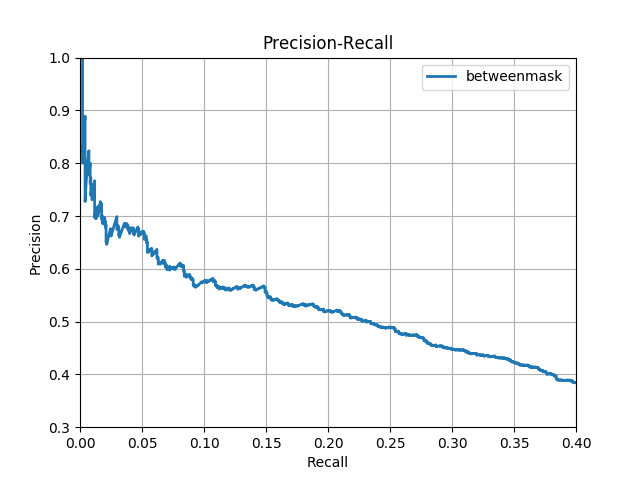
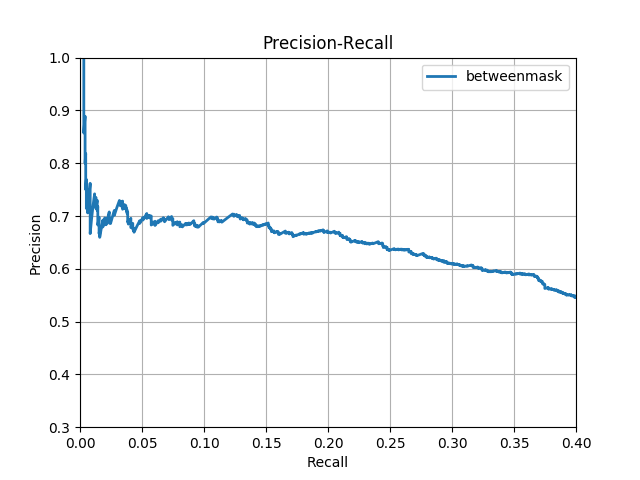
<fix>: stable result

diff --git a/code/dataloader.py b/code/dataloader.py
@@ -10,6 +10,7 @@ import random
 import pdb
 import time
 from config import Config
+from transformers import BertTokenizer
 import multiprocessing.dummy as mp 
 from torch import utils
 import torch
@@ -118,10 +119,13 @@ class Dataloader:
             self.data_length = np.zeros((self.instance_tot, ), dtype=int)
             self.data_query = np.zeros((self.instance_tot, ), dtype=int)
             self.data_knowledge = np.zeros((self.instance_tot, Config.rel_num), dtype=float)
+            # for encoder
             self.data_input_ids = np.zeros((self.instance_tot, Config.sen_len), dtype=int)
             self.data_attention_mask = np.zeros((self.instance_tot, Config.sen_len), dtype=int)
+            # for decoder
             self.data_token_mask = np.ones((self.instance_tot, Config.sen_len), dtype=int)
             self.data_between_entity_mask = np.zeros((self.instance_tot, Config.sen_len), dtype=int)
+            self.data_governor_mask = np.zeros((self.instance_tot, Config.sen_len), dtype=int)
 
             def _process_loop(i):
                 # for i, instance in enumerate(data):
@@ -189,7 +193,7 @@ class Dataloader:
                     self.data_query[i] = 0
                     print("relation error 1")
                 
-                # input ids for bert and token_mask
+                # for bert encoder
                 bert_tokens = tokenizer.tokenize(sentence)
                 head_tokens = tokenizer.tokenize(head)
                 tail_tokens = tokenizer.tokenize(tail)
@@ -204,10 +208,12 @@ class Dataloader:
                 length = min(len(bert_tokens), Config.sen_len)
                 self.data_input_ids[i][0:length] = tokenizer.convert_tokens_to_ids(bert_tokens[0:length])
                 self.data_attention_mask[i][0:length] = 1
+                self.data_length[i] = length                
+                # for mask
                 head_pos = bert_tokens.index(head_tokens[0])
                 tail_pos = bert_tokens.index(tail_tokens[0])
-                self.data_token_mask[i][head_pos-1:head_pos+len(head_tokens)+1] = 0
-                self.data_token_mask[i][tail_pos-1:tail_pos+len(tail_tokens)+1] = 0
+                self.data_token_mask[i][head_pos:head_pos+len(head_tokens)] = 0
+                self.data_token_mask[i][tail_pos:tail_pos+len(tail_tokens)] = 0
                 if head_pos < tail_pos:
                     fir_pos = head_pos
                     sec_pos = tail_pos
@@ -216,9 +222,7 @@ class Dataloader:
                     fir_pos = tail_pos
                     sec_pos = head_pos
                     len_fir = len(tail_tokens)
-                self.data_between_entity_mask[i][fir_pos+len_fir+1:sec_pos-1] = 1
-                self.data_length[i] = length
-
+                self.data_between_entity_mask[i][fir_pos+len_fir:sec_pos] = 1
 
                 # knowledge 
                 entities = instance["head"]["id"]+"#"+instance["tail"]["id"]
@@ -256,6 +260,10 @@ class Dataloader:
             print(end_time-start_time)
         else:
             print("There exists pre-processed data already. loading....")
+            # self.word_vec = np.load(os.path.join("../data/pre_processed_data", "word_vec.npy"))
+            # self.data_word = np.load(os.path.join("../data/pre_processed_data", mode+"_word.npy"))
+            # self.data_pos1 = np.load(os.path.join("../data/pre_processed_data", mode+"_pos1.npy"))
+            # self.data_pos2 = np.load(os.path.join("../data/pre_processed_data", mode+"_pos2.npy"))
             self.data_query = np.load(os.path.join("../data/pre_processed_data", mode+"_label.npy"))
             self.data_length = np.load(os.path.join("../data/pre_processed_data", mode+"_length.npy"))
             self.data_knowledge = np.load(os.path.join("../data/pre_processed_data", mode+"_knowledge.npy"))
@@ -327,13 +335,24 @@ class Dataloader:
             else:
                 return self.to_tensor(self.data_input_ids[index][:, :max_length]), \
                         self.to_tensor(self.data_attention_mask[index][:, :max_length])
+            # batch_data = {}
+            # batch_data['word'] = self.to_tensor(self.data_word[index])
+            # batch_data['pos1'] = self.to_tensor(self.data_pos1[index])
+            # batch_data['pos2'] = self.to_tensor(self.data_pos2[index])
+            # batch_data['query'] = self.to_tensor(self.data_query[index])
+            # batch_data['knowledge'] = self.to_tensor(self.data_knowledge[index])
+            # batch_data['label'] = None
+            # batch_data['scope'] = None
+            # return batch_data
         else:
+            batch_data = {}
             _word = []
             _pos1 = []
             _pos2 = []
             _ids = []
             _mask = []
             _rel = []
+            _label = []
             _multi_rel = []
             _scope = []
             cur_pos = 0
@@ -343,7 +362,8 @@ class Dataloader:
                 _pos2.append(self.data_pos2[self.scope[self.order[i]][0]:self.scope[self.order[i]][1]])
                 _ids.append(self.data_input_ids[self.scope[self.order[i]][0]:self.scope[self.order[i]][1]])
                 _mask.append(self.data_attention_mask[self.scope[self.order[i]][0]:self.scope[self.order[i]][1]])
-                _rel.append(self.data_query[self.scope[self.order[i]][0]])
+                _rel.append(self.data_query[self.scope[self.order[i]][0]:self.scope[self.order[i]][1]])
+                _label.append(self.data_query[self.scope[self.order[i]][0]])
                 bag_size = self.scope[self.order[i]][1] - self.scope[self.order[i]][0]
                 _scope.append([cur_pos, cur_pos + bag_size])
                 cur_pos = cur_pos + bag_size
@@ -352,13 +372,11 @@ class Dataloader:
                     _one_multi_rel[self.data_query[j]] = 1
                 _multi_rel.append(_one_multi_rel)
             
-            batch_data['pos_word'] = np.concatenate(_word)
-            batch_data['pos_pos1'] = np.concatenate(_pos1)
-            batch_data['pos_pos2'] = np.concatenate(_pos2)
-            batch_data['input_ids'] = np.concatenate(_ids)
-            batch_data['attention_mask'] = np.concatenate(_mask)
-            batch_data['query'] = np.stack(_rel)
-            batch_data['multi_label'] = np.stack(_multi_rel)
+            batch_data['word'] = self.to_tensor(np.concatenate(_word))
+            batch_data['pos1'] = self.to_tensor(np.concatenate(_pos1))
+            batch_data['pos2'] = self.to_tensor(np.concatenate(_pos2))
+            batch_data['query'] = self.to_tensor(np.concatenate(_rel))
+            batch_data['label'] = self.to_tensor(np.stack(_label))
             batch_data['scope'] = np.stack(_scope)
 
             return batch_data

diff --git a/code/main.py b/code/main.py
@@ -2,6 +2,7 @@
 Train
 """
 import os
+import json
 import torch
 import torch.nn as nn
 import torch.optim as optim
@@ -140,6 +141,7 @@ def train(args, model, train_dataloader, dev_dataloader, train_ins_tot, dev_ins_
     global_step = 0
     set_seed(args)
     for i in range(Config.max_epoch):
+        pre_scores = []
         # train
         model.train()
         Config.training = True
@@ -151,9 +153,18 @@ def train(args, model, train_dataloader, dev_dataloader, train_ins_tot, dev_ins_
                 'attention_mask':batch_data[1].cuda(),
                 'mask':batch_data[2].cuda(),
                 'query':batch_data[3].cuda(),
-                'knowledge':batch_data[4].cuda()
-            }           
-            loss = model(**inputs)
+                'knowledge':batch_data[4].cuda(),
+            }       
+            # inputs = {
+            #     'word':batch_data['word'].cuda(),
+            #     'pos1':batch_data['pos1'].cuda(),
+            #     'pos2':batch_data['pos2'].cuda(),
+            #     'query':batch_data['query'].cuda(),
+            #     'label':batch_data['label'].cuda(),
+            #     'scope':batch_data['scope']
+            # }    
+            loss, scores = model(**inputs)
+            pre_scores.append(scores.cpu().detach().numpy().tolist())
             loss = loss.mean()
             loss = loss / Config.gradient_accumulation_steps
             with amp.scale_loss(loss, optimizer) as scaled_loss:
@@ -166,8 +177,9 @@ def train(args, model, train_dataloader, dev_dataloader, train_ins_tot, dev_ins_
                 model.zero_grad()
                 global_step += 1
         print("")
-
+        json.dump(pre_scores, open(os.path.join("../res", Config.info+".json"), 'w'))
         # clean gpu memory cache
+        del pre_scores
         del batch_data
         torch.cuda.empty_cache()
         # dev
@@ -183,6 +195,11 @@ def train(args, model, train_dataloader, dev_dataloader, train_ins_tot, dev_ins_
                         'input_ids':batch_data[0].cuda(),
                         'attention_mask':batch_data[1].cuda()
                     }
+                    # inputs = {
+                    #     'word': batch_data['word'].cuda(),
+                    #     'pos1': batch_data['pos1'].cuda(),
+                    #     'pos2': batch_data['pos2'].cuda()
+                    # }
                     logit = model(**inputs)
                     bagTest.update(logit.cpu().detach())
                     sys.stdout.write("batch_size:%d, dev_ins_tot:%d, batch:%d, ,dev_processed: %.3f\r" % (Config.batch_size, dev_ins_tot, j, j/((dev_ins_tot // Config.batch_size))))
@@ -190,7 +207,6 @@ def train(args, model, train_dataloader, dev_dataloader, train_ins_tot, dev_ins_
                 print("")
                 bagTest.forward(i)  
                 print("---------------------------------------------------------------------------------------------------")
-                # clean gpu memory cache
         #clean gpu memory cache
         del batch_data
         torch.cuda.empty_cache()
@@ -319,7 +335,7 @@ if __name__ == "__main__":
         # train
         train_dataloader = Dataloader("train", "relfact" if Config.train_bag else "ins")
         dev_dataloader = Dataloader("test", "entpair" if Config.eval_bag else "ins")
-        model = LatentRE(train_dataloader.weight)
+        model = LatentRE(None, train_dataloader.weight)
         model.cuda()
         train(args,
               model, 

diff --git a/code/depparser.py b/code/depparser.py
@@ -8,11 +8,13 @@ from config import Config
 import sys 
 import time
 import argparse 
+from transformers import BertTokenizer
 
 class Depparser():
     def __init__(self):
+        self.tokenizer = BertTokenizer.from_pretrained(Config.model_name_or_path, do_lower_case=True)
         pass 
-    def parser(self):
+    def parser(self, args):
         # merge depparsered data
         parser_tokened_word = json.load(open("../data/parser_tokened_word0.json"))
         word1 = json.load(open("../data/parser_tokened_word1.json"))
@@ -37,8 +39,11 @@ class Depparser():
             sen = instance["sentence"].lower().replace(".", '')
             head = instance["head"]["word"].lower()
             tail = instance["tail"]["word"].lower()
-            sen_words = sen.split()
+            bert_tokens = self.tokenizer.tokenize(sen)
+            bert_tokens.insert(0, '[CLS]')
+            bert_tokens.append("[SEP]")
             tokened_word = parser_tokened_word[i]
+            
             governor = parser_governor[i]
             mask = []
             head = head.split()[0]
@@ -68,6 +73,7 @@ class Depparser():
                 elif item == tail_father:
                     if j < tidx and j >= (tidx+len_tail):
                         child_tail_path.append(j+1)
+            
             key_governor = -1
             while head_governor != 0:
                 head_path.append(head_governor)
@@ -89,11 +95,13 @@ class Depparser():
                 mask.append(j)
             for j in tail_path:
                 mask.append(j)
+            
             # child 
             for j in child_head_path:
                 mask.append(j)
             for j in child_tail_path:
                 mask.append(j)
+            
             true_mask = [] 
             for j in mask:
                 if j == 0:
@@ -101,7 +109,7 @@ class Depparser():
                 else:
                     text = tokened_word[j-1]
                 try:
-                    id = sen_words.index(text)
+                    id = bert_tokens.index(text)
                     true_mask.append(id)
                 except:
                     warning_in_sen_num += 1
@@ -116,9 +124,11 @@ class Depparser():
 parser = argparse.ArgumentParser(description="latentRE")
 parser.add_argument("--cuda", dest="cuda", type=str, default="4", help="cuda")
 parser.add_argument("--index", dest="index", type=int, default=0, help="index")
+parser.add_argument("--child", action="store_true", help="whether or not to mask the first child")
 args = parser.parse_args()
 
 os.environ["CUDA_VISIBLE_DEVICES"] = args.cuda 
+print(args)
 depparser = Depparser()
-depparser.parser()
+depparser.parser(args)
         

diff --git a/code/model.py b/code/model.py
@@ -16,8 +16,9 @@ import time
 
 
 class LatentRE(nn.Module):
-    def __init__(self, weight=None):
+    def __init__(self, word_vec, weight=None):
         super(LatentRE, self).__init__()
+        # self.textRepre = TextRepre(word_vec)
         self.encoder = Bert()
         self.selector = Selector()
         self.decoder = BertDecoder()
@@ -32,17 +33,27 @@ class LatentRE(nn.Module):
                   scope=None):
         if Config.training:
             text = self.encoder(input_ids, attention_mask)
-            logit, latent = self.selector(text, scope, query, knowledge)
+            logit, latent = self.selector(text, scope, query)
             ce_loss = self.loss.ce_loss(logit, query)
             kl_loss = self.loss.kl_loss(logit, knowledge)
             if Config.latent:
-                gen_loss = self.decoder(input_ids, attention_mask, mask, latent)
-                return kl_loss + gen_loss * Config.gen_loss_scale + ce_loss * Config.ce_loss_scale
+                gen_loss, scores = self.decoder(input_ids, attention_mask, mask, latent+text)
+                return kl_loss + gen_loss * Config.gen_loss_scale + ce_loss * Config.ce_loss_scale, scores
             else:
                 return kl_loss * Config.kl_loss_scale + ce_loss * Config.ce_loss_scale
         else:
             text = self.encoder(input_ids, attention_mask)
             logit = self.selector(text, scope)
             return logit
+        # if Config.training:
+        #     text = self.textRepre(word, pos1, pos2)
+        #     logit, _ = self.selector(text, scope, query)
+        #     ce_loss = self.loss.ce_loss(logit, label)
+        #     return ce_loss
+        # else:
+        #     text = self.textRepre(word, pos1, pos2)
+        #     logit = self.selector(text, None)
+        #     return logit
+
 
 

diff --git a/code/selector.py b/code/selector.py
@@ -48,7 +48,7 @@ class Selector(nn.Module):
     def __logit__(self, x):
         return torch.matmul(x, self.rel_mat) + self.bias
     
-    def forward(self, x, scope, query = None, knowledge=None):
+    def forward(self, x, scope, query = None):
         if Config.training:
             if Config.train_bag:
                 bag_repre = []
@@ -60,7 +60,7 @@ class Selector(nn.Module):
                 bag_repre = torch.stack(bag_repre)
 
                 bag_logit = self.__logit__(bag_repre)
-                gumbal_logit = self.gumbal_softmax(bag_logit, Config.gumbal_temperature) 
+                gumbal_logit = self.gumbal_softmax(bag_logit, Config.gumbel_temperature) 
                 # gumbal_logit  `(batch_size, rel_num)`
                 # rel_mat `(hidden_size, rel_num)`
                 latent = torch.matmul(gumbal_logit, self.rel_mat.transpose(0, 1))

diff --git a/code/tmp_for_test.py b/code/tmp_for_test.py
@@ -44,6 +44,7 @@ class BagTest(object):
                 _one_multi_label[query[j]] = 1
             _multi_label.append(_one_multi_label)
         self.multi_label = np.stack(_multi_label)
+        np.save("../ckpt/logit/label.npy", self.multi_label)
             
         self.auc = 0
         self.epoch = 0
@@ -92,8 +93,8 @@ class BagTest(object):
         return auc
     
     def forward(self, epoch):
-        # if self.logit.size()[0] != len(self.scope):
-        #     exit("--------------------------wrong! The test data is not aligned!------------------------")
+        if self.logit.size()[0] != self.scope[-1][1]:
+            exit("--------------------------wrong! The test data is not aligned!------------------------")
         bag_logit = []
         for i in range(len(self.scope)):
             bag = self.logit[self.scope[i][0]:self.scope[i][1]]

diff --git a/code/textRepre.py b/code/textRepre.py
@@ -23,13 +23,7 @@ class TextRepre(nn.Module):
                             self.pos1_embedding(pos1),
                                 self.pos2_embedding(pos2)), dim=2)
     
-    def forward(self, word, pos1, pos2, mask=None):
-        # Config.writer.add_graph(self, (word, pos1, pos2))
+    def forward(self, word, pos1, pos2):
         embedding = self.embedding(word, pos1, pos2)
         text = self.cnn(embedding.permute(0,2,1))
-        if mask is not None:
-            mask_embedding = embedding * (mask.unsqueeze(2))
-            ent_context = self.cnn(mask_embedding.permute(0,2,1))
-            return text, ent_context
-        else:
-            return text
+        return text

diff --git a/code/decoder.py b/code/decoder.py
@@ -119,5 +119,5 @@ class BertDecoder(nn.Module):
         }
         ouputs = self.model(**inputs)
         loss = ouputs[0]
-        return loss 
+        return loss, torch.argmax(ouputs[1], -1) 
         
